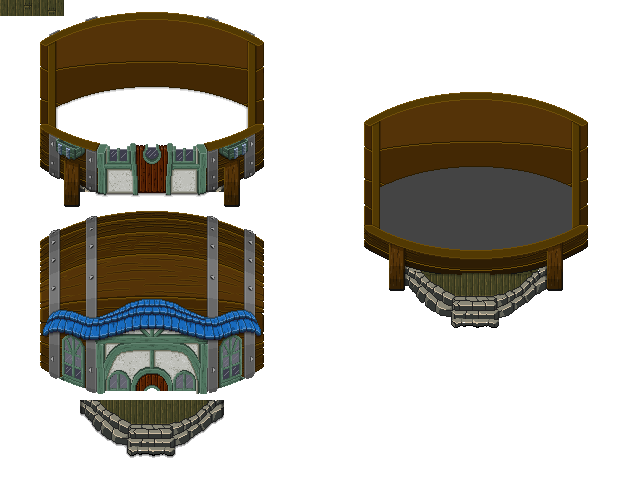
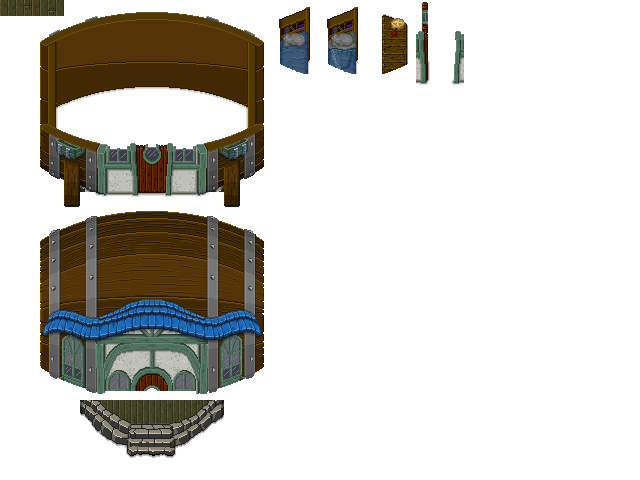
added bed/table for vendor house and integrated

Changed region(s): [[0.5625, 0.0, 0.9375, 0.6875], [0.4375, 0.0, 0.5625, 0.1562]]

diff --git a/js/sparkAssets.js b/js/sparkAssets.js
@@ -55,16 +55,14 @@ class SparkAssets {
                 Templates.xsprite("vhouseFront4", 5, 8, {height: 16*4}),
                 Templates.xsprite("vhouseFront5", 6, 8, {height: 16*5}),
                 Templates.xsprite("vhouseFront6", 7, 9, {height: 16*4}),
-                Templates.xsprite("vhouseDoor.close", 8, 8, {height: 16*5, width: 16*3}),
+                Templates.xsprite("vhouseDoor.close", 8, 7, {height: 16*6, width: 16*3}),
                 Templates.xsprite("vhouseFront8", 11, 9, {height: 16*4}),
                 Templates.xsprite("vhouseFront9", 12, 8, {height: 16*5}),
                 Templates.xsprite("vhouseFront10", 13, 8, {height: 16*4}),
                 Templates.xsprite("vhouseFront11", 14, 8, {height: 16*5}),
                 Templates.xsprite("vhouseFront12", 15, 7, {height: 16*5}),
                 Templates.xsprite("vhouseFront13", 16, 7, {height: 16*4}),
-
                 Templates.xsprite("vhouseRoof", 2, 13, {width: 16*15, height: 16*12}),
-
                 Templates.xsprite("vhousePorch1", 5, 25, {height: 16*2}),
                 Templates.xsprite("vhousePorch2", 6, 25, {height: 16*3}),
                 Templates.xsprite("vhousePorch3", 7, 25, {height: 16*4}),
@@ -74,8 +72,27 @@ class SparkAssets {
                 Templates.xsprite("vhousePorch7", 11, 25, {height: 16*4}),
                 Templates.xsprite("vhousePorch8", 12, 25, {height: 16*3}),
                 Templates.xsprite("vhousePorch9", 13, 25, {height: 16*2}),
-
+                Templates.xsprite("vhouseBed.empty", 17, 0, {height: 16*5, width: 16*3}),
+                Templates.xsprite("vhouseBed.occupied", 20, 0, {height: 16*5, width: 16*3}),
+                Templates.xsprite("vhouseTable", 23, 0, {height: 16*5, width: 16*3}),
+                Templates.xsprite("vhouseDoor.open", 26, 0, {height: 16*6, width: 16*3}),
             ]},
+
+            { tag: "vhouseBed", 
+                cls: "Animator", 
+                animations: { 
+                    [ModelState.idle]: { cls: "Media", tag: "vhouseBed.empty" }, 
+                    [ModelState.occupied]: { cls: "Media", tag: "vhouseBed.occupied" }, 
+                },
+            },
+
+            { tag: "vhouseDoor", 
+                cls: "Animator", 
+                animations: { 
+                    [ModelState.close]: { cls: "Media", tag: "vhouseDoor.close" }, 
+                    [ModelState.open]: { cls: "Media", tag: "vhouseDoor.open" }, 
+                },
+            },
 
             Templates.overlayMedia("img/grass.png", "grass", {"height": 16, "width": 16, kw: ["overlay"]}),
             Templates.overlayMedia("img/ocean.png", "ocean", {"height": 16, "width": 16, kw: ["overlay"]}),
@@ -489,7 +506,6 @@ class SparkAssets {
             Templates.tile("01j", "vhouseFront4", {offy: -24}), //5, 8, {height: 16*4}),
             Templates.tile("01k", "vhouseFront5", {offy: -32}), //6, 8, {height: 16*4}),
             Templates.tile("01l", "vhouseFront6", {offy: -24}), //7, 9, {height: 16*3}),
-            Templates.tile("01m", "vhouseDoor.close", {offx: 16, offy: -32}), //8, 8, {height: 16*4, width: 16*3}),
             Templates.tile("01n", "vhouseFront8", {offy: -24}), //11, 9, {height: 16*3}),
             Templates.tile("01o", "vhouseFront9", {offy: -32}), //12, 8, {height: 16*4}),
             Templates.tile("01p", "vhouseFront10", {offy: -24}), //13, 8, {height: 16*4}),
@@ -508,6 +524,8 @@ class SparkAssets {
             Templates.tile("01A", "vhousePorch7", {offy: -24}), //11, 25, {height: 16*4}),
             Templates.tile("01B", "vhousePorch8", {offy: -16}), //12, 25, {height: 16*3}),
             Templates.tile("01C", "vhousePorch9", {offy: -8}), //13, 25, {height: 16*2}),
+
+            Templates.tile("01D", "vhouseTable", {offx: 16, offy: -32}),
 
             Templates.object("o00", "sparkbase", "SparkBase", { 
                 powered: true,
@@ -602,6 +620,22 @@ class SparkAssets {
                     {x: 32, y: 0 },
                     {x: 48, y: 0 },
                 ],
+            }),
+
+            Templates.object("o0c", "vhouseDoor", "Door", {
+                offx: 0, offy: -40,
+                approachOffsets: [{x:16, y:16}, {x:16, y:-32}],
+                exitOffsets:     [{x:16, y:-32}, {x:16, y:16}],
+                xopenSfx: { cls: "Media", tag: "doorOpening"}, 
+                xcloseSfx: { cls: "Media", tag: "doorClosing"}, 
+                xcollider: { offy: 24, width:32, height:24 }, 
+            }),
+
+            Templates.object("o0d", "vhouseBed", "Bed", {
+                offx: 16, offy: -48,
+                xcollider: { width: 24, height: 48 }, 
+                occupiedOffX: 8, occupiedOffY: -22,
+                approachOffsets: [{x:32, y:-16}, {x:32, y:-32}],
             }),
 
             { tag: "spark", cls: "SparkProjectile", 

diff --git a/js/worldGen.js b/js/worldGen.js
@@ -2569,14 +2569,14 @@ class WorldGen {
                     "0000","0000","0000","0000","0000","0000","0000","0000","0000","0000","0000","0000","0000","0000","0000","0000","0000",
                     "0000","0000","0000","0000","0000","0000","0000","0000","0000","0000","0000","0000","0000","0000","0000","0000","0000",
                     "0000","0000","0000","0000","0000","0015","0016","0017","0018","0019","001a","001b","0000","0000","0000","0000","0000",
-                    "0000","0011","0012","0013","0014","0000","0000","0000","0000","0000","0000","0000","001c","001d","001e","001f","0000",
+                    "0000","0011","0012","0013","0014","0000","0000","0000","0o07","0000","0000","0000","001c","001d","001e","001f","0000",
                     "0000","0000","0000","0000","0000","0000","0000","0000","0000","0000","0000","0000","0000","0000","0000","0000","0000",
-                    "0000","0000","0000","0000","0000","0000","0000","0000","0000","0000","0000","0000","0000","0000","0000","0000","0000",
-                    "0000","0000","0000","0000","0000","0000","0000","0000","0000","0000","0000","0000","0000","0000","0000","0000","0000",
+                    "0000","0000","0000","0000","0000","0000","0000","0000","0000","0000","0000","0o02","001D","0000","0000","0000","0000",
+                    "0000","0000","0o0d","0000","0000","0000","0000","0000","0000","0000","0000","0000","0000","0000","0000","0000","0000",
                     "0000","001g","0000","0000","0000","0000","0000","0000","0000","0000","0000","0000","0000","0000","0000","001s","0000",
                     "0000","0000","001h","0000","001j","0000","0000","0000","0000","0000","0000","0000","001p","0000","001r","0000","0000",
-                    "0000","0000","0000","001i","0000","001k","001l","001m","0000","0000","001n","001o","0000","001q","0000","0000","0000",
-                    "0000","0000","0000","0000","0000","0000","0000","0000","0000","0000","0000","0000","0000","0000","0000","0000","0000",
+                    "0000","0000","0000","001i","0000","001k","001l","0000","0o0c","0000","001n","001o","0000","001q","0000","0000","0000",
+                    "0000","0000","0003","0000","0000","0000","0000","0000","0000","0000","0000","0000","0000","0000","0000","0000","0000",
                     "0000","0000","0000","0000","0000","0000","0000","0000","0000","0000","0000","0000","0000","0000","0000","0000","0000",
                     "0000","0000","0000","0000","0000","0000","0000","0000","0000","0000","0000","0000","0000","0000","0000","0000","0000",
                 ],
